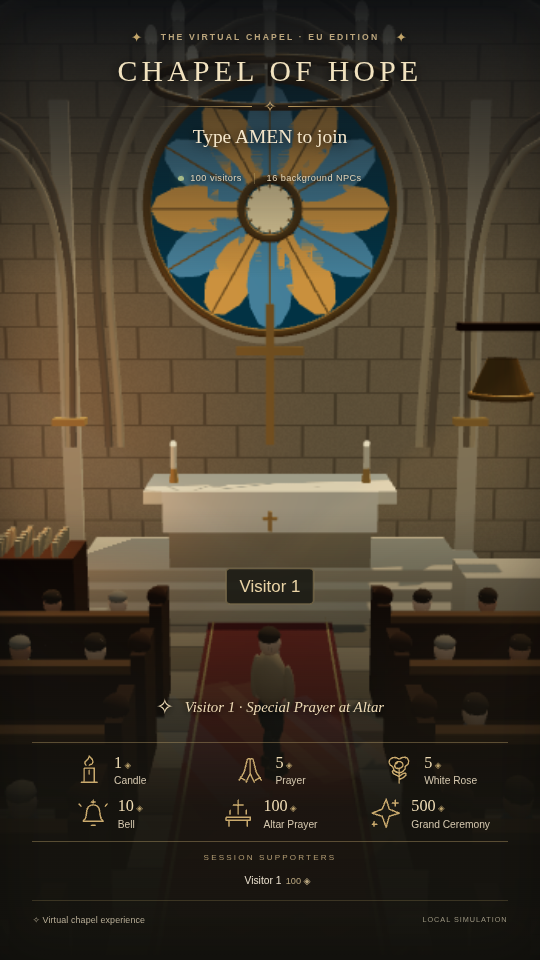
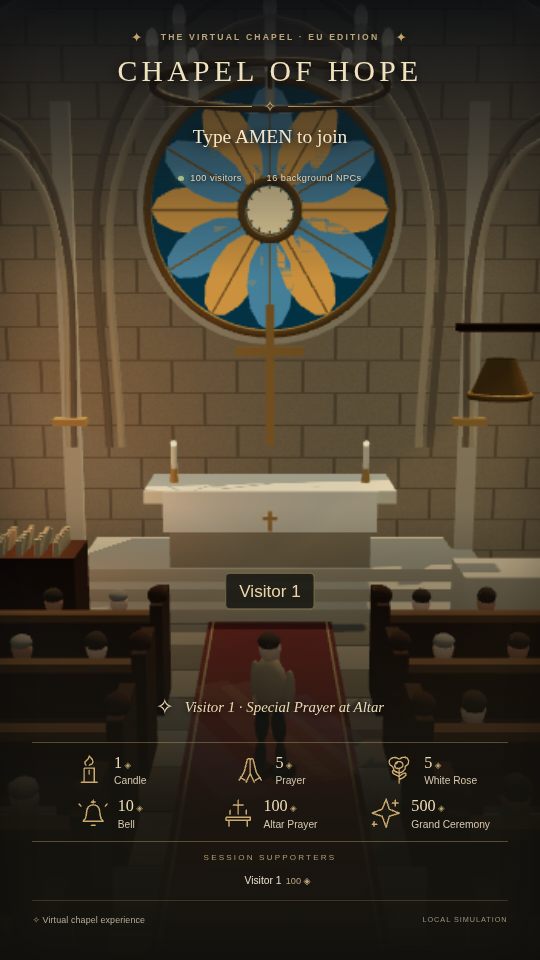
fix: clear pews during kneeling and distinguish internal crowd roles

diff --git a/apps/client/src/Crowd.tsx b/apps/client/src/Crowd.tsx
@@ -28,7 +28,7 @@ export function Crowd({
   attendees,
   active,
 }: {
-  attendees: Attendee[];
+  attendees: (Attendee & { renderRole?: "npc" | "presenter" })[];
   active: ActiveGift | null;
 }) {
   const round = useRef<T.InstancedMesh>(null!),
@@ -81,7 +81,9 @@ export function Crowd({
         .slice(0, QUALITY[level].details)
         .map((a) => a.id),
     );
-    const ids = new Set(attendees.map((a) => a.userId));
+    const ids = new Set(
+      attendees.map((a) => `${a.renderRole ?? "viewer"}:${a.userId}`),
+    );
     for (const id of scratch.states.keys())
       if (!ids.has(id)) scratch.states.delete(id);
     const put = (
@@ -107,8 +109,9 @@ export function Crowd({
       mesh.setColorAt(index, scratch.color.set(color));
     };
     attendees.forEach((a, index) => {
-      const npc = a.userId.startsWith("npc-"),
-        presenter = a.userId.startsWith("presentation-");
+      const npc = a.renderRole === "npc",
+        presenter = a.renderRole === "presenter";
+      const renderId = `${a.renderRole ?? "viewer"}:${a.userId}`;
       const event = active?.presentation && !presenter ? null : active;
       const actor =
         presenter && active ? { ...a, userId: active.event.userId } : a;
@@ -120,7 +123,7 @@ export function Crowd({
             visible: true,
           }
         : attendeePose(actor, now, event);
-      let s = scratch.states.get(a.userId);
+      let s = scratch.states.get(renderId);
       if (!s) {
         s = {
           sit: pose.state === "seated" ? 1 : 0,
@@ -130,7 +133,7 @@ export function Crowd({
           z: pose.position[2],
           shown: 0,
         };
-        scratch.states.set(a.userId, s);
+        scratch.states.set(renderId, s);
       }
       const walking =
         pose.state === "walking_to_seat" ||
@@ -150,7 +153,15 @@ export function Crowd({
       if (!pose.visible && s.shown < 0.01) return;
       scratch.q.setFromAxisAngle(scratch.axis, s.yaw);
       scratch.root.compose(
-        new T.Vector3(s.x, 0, s.z),
+        // Move onto the kneeler before lowering the hips, clear of the seat slab.
+        new T.Vector3(
+          s.x,
+          0,
+          s.z -
+            (a.seat !== null && active?.event.giftKey !== "altar_100"
+              ? 0.65 * s.kneel
+              : 0),
+        ),
         scratch.q,
         new T.Vector3(1, s.shown, 1),
       );

diff --git a/apps/client/src/Chapel.tsx b/apps/client/src/Chapel.tsx
@@ -456,10 +456,18 @@ function Congregation() {
     <>
       <Crowd
         attendees={[
-          ...(showNpc ? npcs : []),
+          ...(showNpc
+            ? npcs.map((a) => ({ ...a, renderRole: "npc" as const }))
+            : []),
           ...attendees,
           ...(transient
-            ? [{ ...transient, userId: `presentation-${transient.userId}` }]
+            ? [
+                {
+                  ...transient,
+                  userId: `presentation-${transient.userId}`,
+                  renderRole: "presenter" as const,
+                },
+              ]
             : []),
         ]}
         active={active}

diff --git a/docs/PULL_REQUEST_V1_1.md b/docs/PULL_REQUEST_V1_1.md
@@ -4,7 +4,7 @@ Upgrades the completed Task #01 implementation with layered Gothic arches and ma
 
 Preserves all six gifts, the distinct five-coin actions, free AMEN participation, seating/overflow, bounded queue/focus, mock API, cross-tab controls and session recovery. Busy-aisle gift presentation no longer moves the original crowd avatar to the front, and camera expiry tolerates stale network snapshots. Lower pew backs and compact overlays improve visibility.
 
-Validation: 16 gameplay/API tests passed, typecheck and production build passed, real-browser gameplay suite passed. Filled 20/50/100-person browser samples measured 5.8/5.6/4.9 FPS using Chromium SwiftShader; the 30 FPS streaming-hardware target remains unverified. Browser stress captures contain no page errors. Tests exercise 20 simultaneous gifts at all three population sizes, FIFO/fairness, capacity, departure/reentry and camera restoration.
+Validation: 16 gameplay/API tests passed, typecheck and production build passed, real-browser gameplay suite passed. Filled 20/50/100-person browser samples measured 5.9/5.5/5.2 FPS using Chromium SwiftShader; the 30 FPS streaming-hardware target remains unverified. Browser stress captures contain no page errors. Tests exercise 20 simultaneous gifts at all three population sizes, FIFO/fairness, capacity, departure/reentry and camera restoration.
 
 Evidence and limitations are in docs/CHANGELOG_V1_1.md and docs/screenshots/v1.1/. The characters remain original procedural fallbacks; no licensed human GLBs are available, no skeletal retargeting is claimed, and foot-lock IK remains future work. docs/ASSET_PIPELINE.md specifies the licensed rig and animation contract. No real TikTok connectivity exists.
 

diff --git a/docs/CHANGELOG_V1_1.md b/docs/CHANGELOG_V1_1.md
@@ -23,6 +23,8 @@ The characters remain procedural fallbacks. There are no licensed human GLBs in 
 
 Next: licensed rigged people and clip retargeting following [ASSET_PIPELINE.md](ASSET_PIPELINE.md), foot IK and turn-in-place clips, GPU profiling on capture hardware, and localization.
 
-Final software-GPU samples: **20 attendees 5.8 FPS; 50 attendees 5.6 FPS; 100 attendees 4.9 FPS**. No browser page errors. These are foreground filled-scene measurements; the earlier multi-tab gameplay smoke run reported 1 FPS and is not directly comparable.
+Final software-GPU samples: **20 attendees 5.9 FPS; 50 attendees 5.5 FPS; 100 attendees 5.2 FPS**. No browser page errors. These are foreground filled-scene measurements; the earlier multi-tab gameplay smoke run reported 1 FPS and is not directly comparable.
 
 Saved evidence: [100-person overview](screenshots/v1.1/congregation-100.png), [altar moment](screenshots/v1.1/altar_100.png), [ceremony](screenshots/v1.1/ceremony_500.png), [control room](screenshots/v1.1/control.png), [measurement JSON](screenshots/v1.1/performance.json).
+
+Final pose review also moved kneeling bodies forward onto the kneeler, clear of the seat slab, and made internal NPC/presentation roles explicit so viewer pseudonyms cannot be mistaken for background actors. The production build and filled-scene browser captures were rerun after these corrections.
